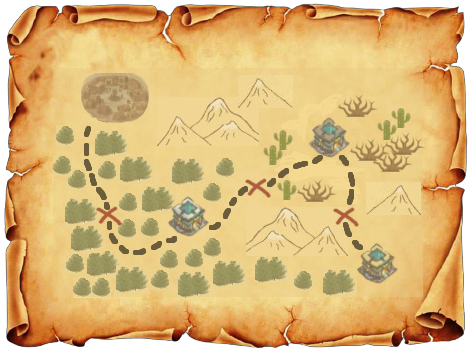
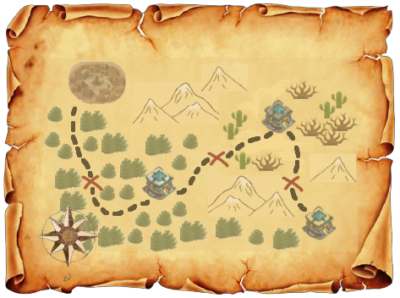
Start coding the map menu

Changed region(s): [[0.06, 0.6946, 0.24, 0.9664]]

diff --git a/data/menus/map/__init__.py b/data/menus/map/__init__.py
@@ -1,0 +1,60 @@
+import pygame
+from pygame.locals import *
+from data.backgrounds import Backgound as Back
+
+class Map(object):
+    def __init__(self, screeen):
+        self.screen = screeen
+        self.map = pygame.image.load("resources/image/map/map.png")
+        self.painel = pygame.image.load("resources/image/map/painel.png")
+        self.golem = pygame.image.load("resources/image/map/Head.png")
+        self.levelDescription = pygame.image.load("resources/image/map/description.png")
+        self.allPlayerLevelMapPosition = [(235, 123),(228, 220), (296, 225), (356, 192), (416, 159), (430, 220), (455, 263)]
+        self.levelPositionMap = 0
+        self.background = Back(screeen)
+        self.font = pygame.font.SysFont("Arial", 14)
+        self.font1 = pygame.font.SysFont("Arial", 24)
+        self.font1.set_bold(True)
+        self.effect = 0
+        self.count = 0
+        
+
+    # Method to display the map in the screen
+    def drawMapInTheScreen(self):
+        self.background.settingBackgroundMenu(2)
+        self.screen.blit(self.painel,(15, 17))
+        self.screen.blit(self.map,(155, 60))
+        self.screen.blit(self.levelDescription, (160, 315))
+        title = self.font1.render("Map", True, (0, 0,0))
+        self.screen.blit(title, (330,30))
+        self.font.set_bold(True)
+        if(self.effect == 8):
+            self.effect = 0
+        else:
+            line = self.font.render("Press ESC to exit map", True, (0, 0,0))
+            self.screen.blit(line, (275, 440))
+            self.effect += 1
+        self.screen.blit(self.golem, (self.allPlayerLevelMapPosition[self.levelPositionMap]))
+        
+        self.movementInMap()
+        
+
+    # Method to control the movemente in the map
+    def movementInMap(self):
+        key_press = pygame.key.get_pressed()
+        
+        if((key_press[K_RIGHT])and(self.levelPositionMap<6)and(self.count > 10)):
+            self.levelPositionMap += 1
+            self.count = 0
+        elif((key_press[K_LEFT])and(self.levelPositionMap>0)and(self.count > 10)):
+            self.levelPositionMap -= 1
+            self.count = 0
+        self.count += 1
+
+    # Method to verify the position of the player in the map
+    def exatPositionOfPlayer(self):
+        pass
+
+    # Method to determinate the move of the player in the map
+    def limiteOfThePlayerInMap(self):
+        pass

diff --git a/data/menus/__init__.py b/data/menus/__init__.py
@@ -14,6 +14,7 @@ from data.player import Player
 from data.plataforma import Plataform
 from data.start import Initiation
 from data.enimy.wizard import WizardSimpleAI as Wizard
+from data.menus.map import Map
 
 
 #  Class for controling all the menu on the game
@@ -30,6 +31,7 @@ class Menus(object):
         self.loadUser = LoadUser(self.screen)
         self.initiation = Initiation(self.screen)
         self.pause = PauseMenu(self.screen)
+        self.map = Map(self.screen)
         self.painelState = 0  # this is to control where we are in the game
         self.user = '' # keep the current user name
         self. nivel = 1 # default value of the level started usualy in 1 
@@ -51,6 +53,8 @@ class Menus(object):
         key = pygame.key.get_pressed()
         if((key[K_ESCAPE])and(self.painelState == 7)):
             self.painelState = 8
+        elif((key[K_ESCAPE])and(self.painelState == 10)):
+            self.painelState = 3
         if(key[K_TAB]):
             exit()
 
@@ -82,4 +86,6 @@ class Menus(object):
             self.painelState = self.skills.movingInPainelSkills()
         elif (self.painelState == 8):
             self.painelState = self.pause.drawUserMenu()
+        elif(self.painelState == 10):
+            self.map.drawMapInTheScreen()
         # print(self.painelState)

diff --git a/data/menus/userMenu/__init__.py b/data/menus/userMenu/__init__.py
@@ -89,7 +89,7 @@ class UserMenu(object):
             return 7
         elif ((pressed_keys[K_RETURN])and(self.menuControl==200)and(self.count >= 5)):
             self.count = 0
-            return 3
+            return 10
         elif ((pressed_keys[K_RETURN])and(self.menuControl==250)and(self.count >= 5)):
             self.count = 0
             return 9
